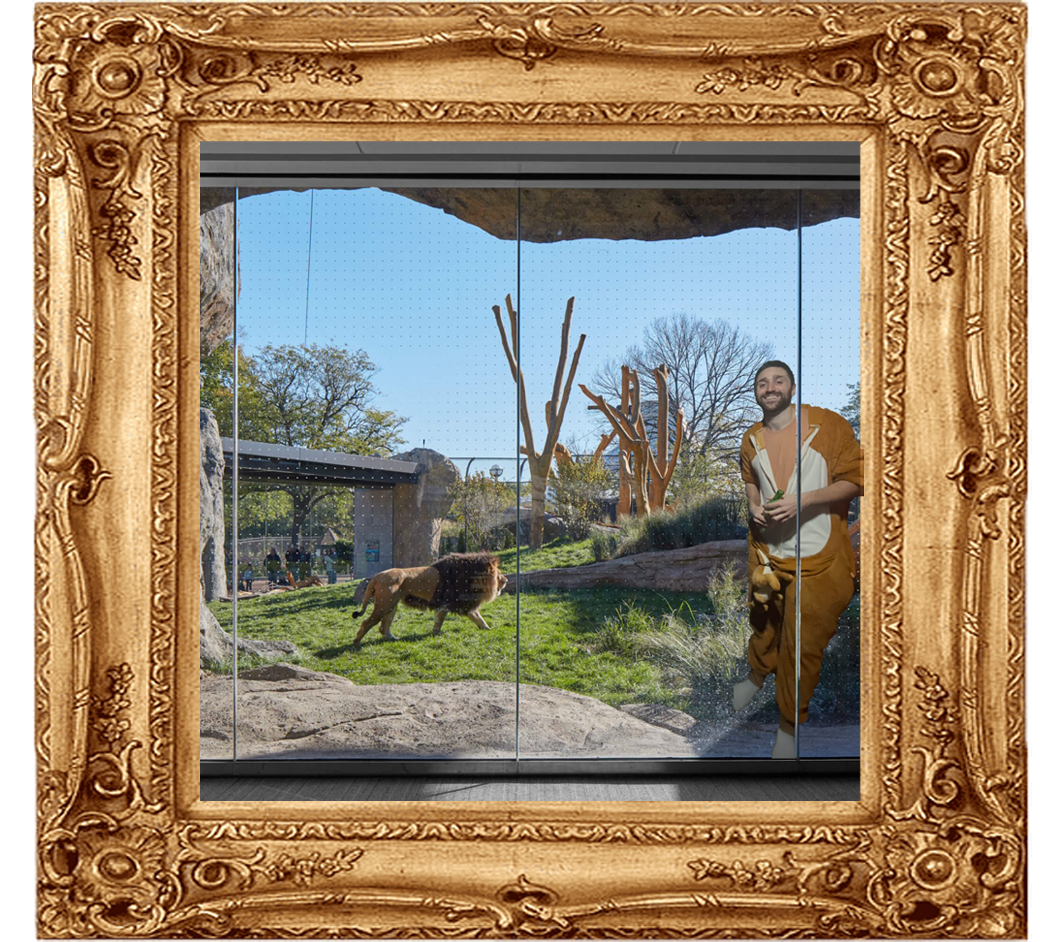
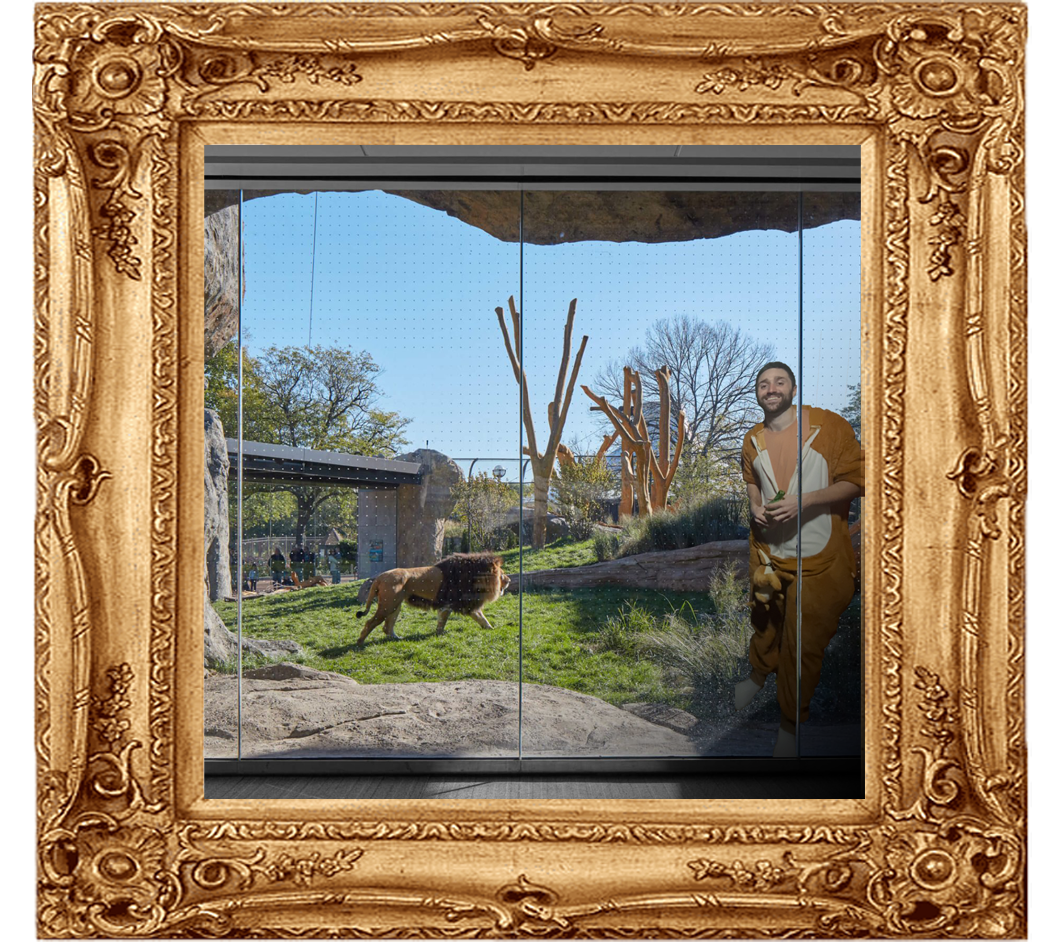
update wall of shame
update wall of shame

Changed region(s): [[0.1863, 0.1231, 0.8382, 0.862]]

diff --git a/flutter_service_worker.js b/flutter_service_worker.js
@@ -14,7 +14,7 @@ const RESOURCES = {"assets/AssetManifest.bin": "75dc6dcf1ea311a7d9b8c7b403453599
 "assets/assets/images/wall_of_shame_4.png": "1cf841b4c2aea9f58cbb1be5508ed1c2",
 "assets/assets/images/wall_of_shame_5.png": "6d60e03c8e0c207673e30b2ed9bae8b1",
 "assets/assets/images/wall_of_shame_6.png": "8b6d25fce2d3dff5dee1ebcda8a55ec6",
-"assets/assets/images/wall_of_shame_7.png": "cb347d633ab5d08aa055781cc890a77f",
+"assets/assets/images/wall_of_shame_7.png": "30d59c05b9a6b3a38823f3abf361a39b",
 "assets/assets/json/players.json": "f28703afae54698dcd9f9756cbb5ce6d",
 "assets/FontManifest.json": "dc3d03800ccca4601324923c0b1d6d57",
 "assets/fonts/MaterialIcons-Regular.otf": "572bcafd47b0883a8cc1854f278be7ec",
@@ -35,7 +35,7 @@ const RESOURCES = {"assets/AssetManifest.bin": "75dc6dcf1ea311a7d9b8c7b403453599
 "canvaskit/skwasm_st.wasm": "56c3973560dfcbf28ce47cebe40f3206",
 "favicon.png": "5dcef449791fa27946b3d35ad8803796",
 "flutter.js": "76f08d47ff9f5715220992f993002504",
-"flutter_bootstrap.js": "7edf826359dc4363a972cd4d4ea87506",
+"flutter_bootstrap.js": "93de3b0397dea0e74809c9954674edb2",
 "icons/Icon-192.png": "ac9a721a12bbc803b44f645561ecb1e1",
 "icons/Icon-512.png": "96e752610906ba2a93c65f8abe1645f1",
 "icons/Icon-maskable-192.png": "c457ef57daa1d16f64b27b786ec2ea3c",

diff --git a/flutter_bootstrap.js b/flutter_bootstrap.js
@@ -11,6 +11,6 @@ _flutter.buildConfig = {"engineRevision":"871f65ac1bf129edb222c3293a636ff4b67534
 
 _flutter.loader.load({
   serviceWorkerSettings: {
-    serviceWorkerVersion: "3291828011"
+    serviceWorkerVersion: "2990244458"
   }
 });
